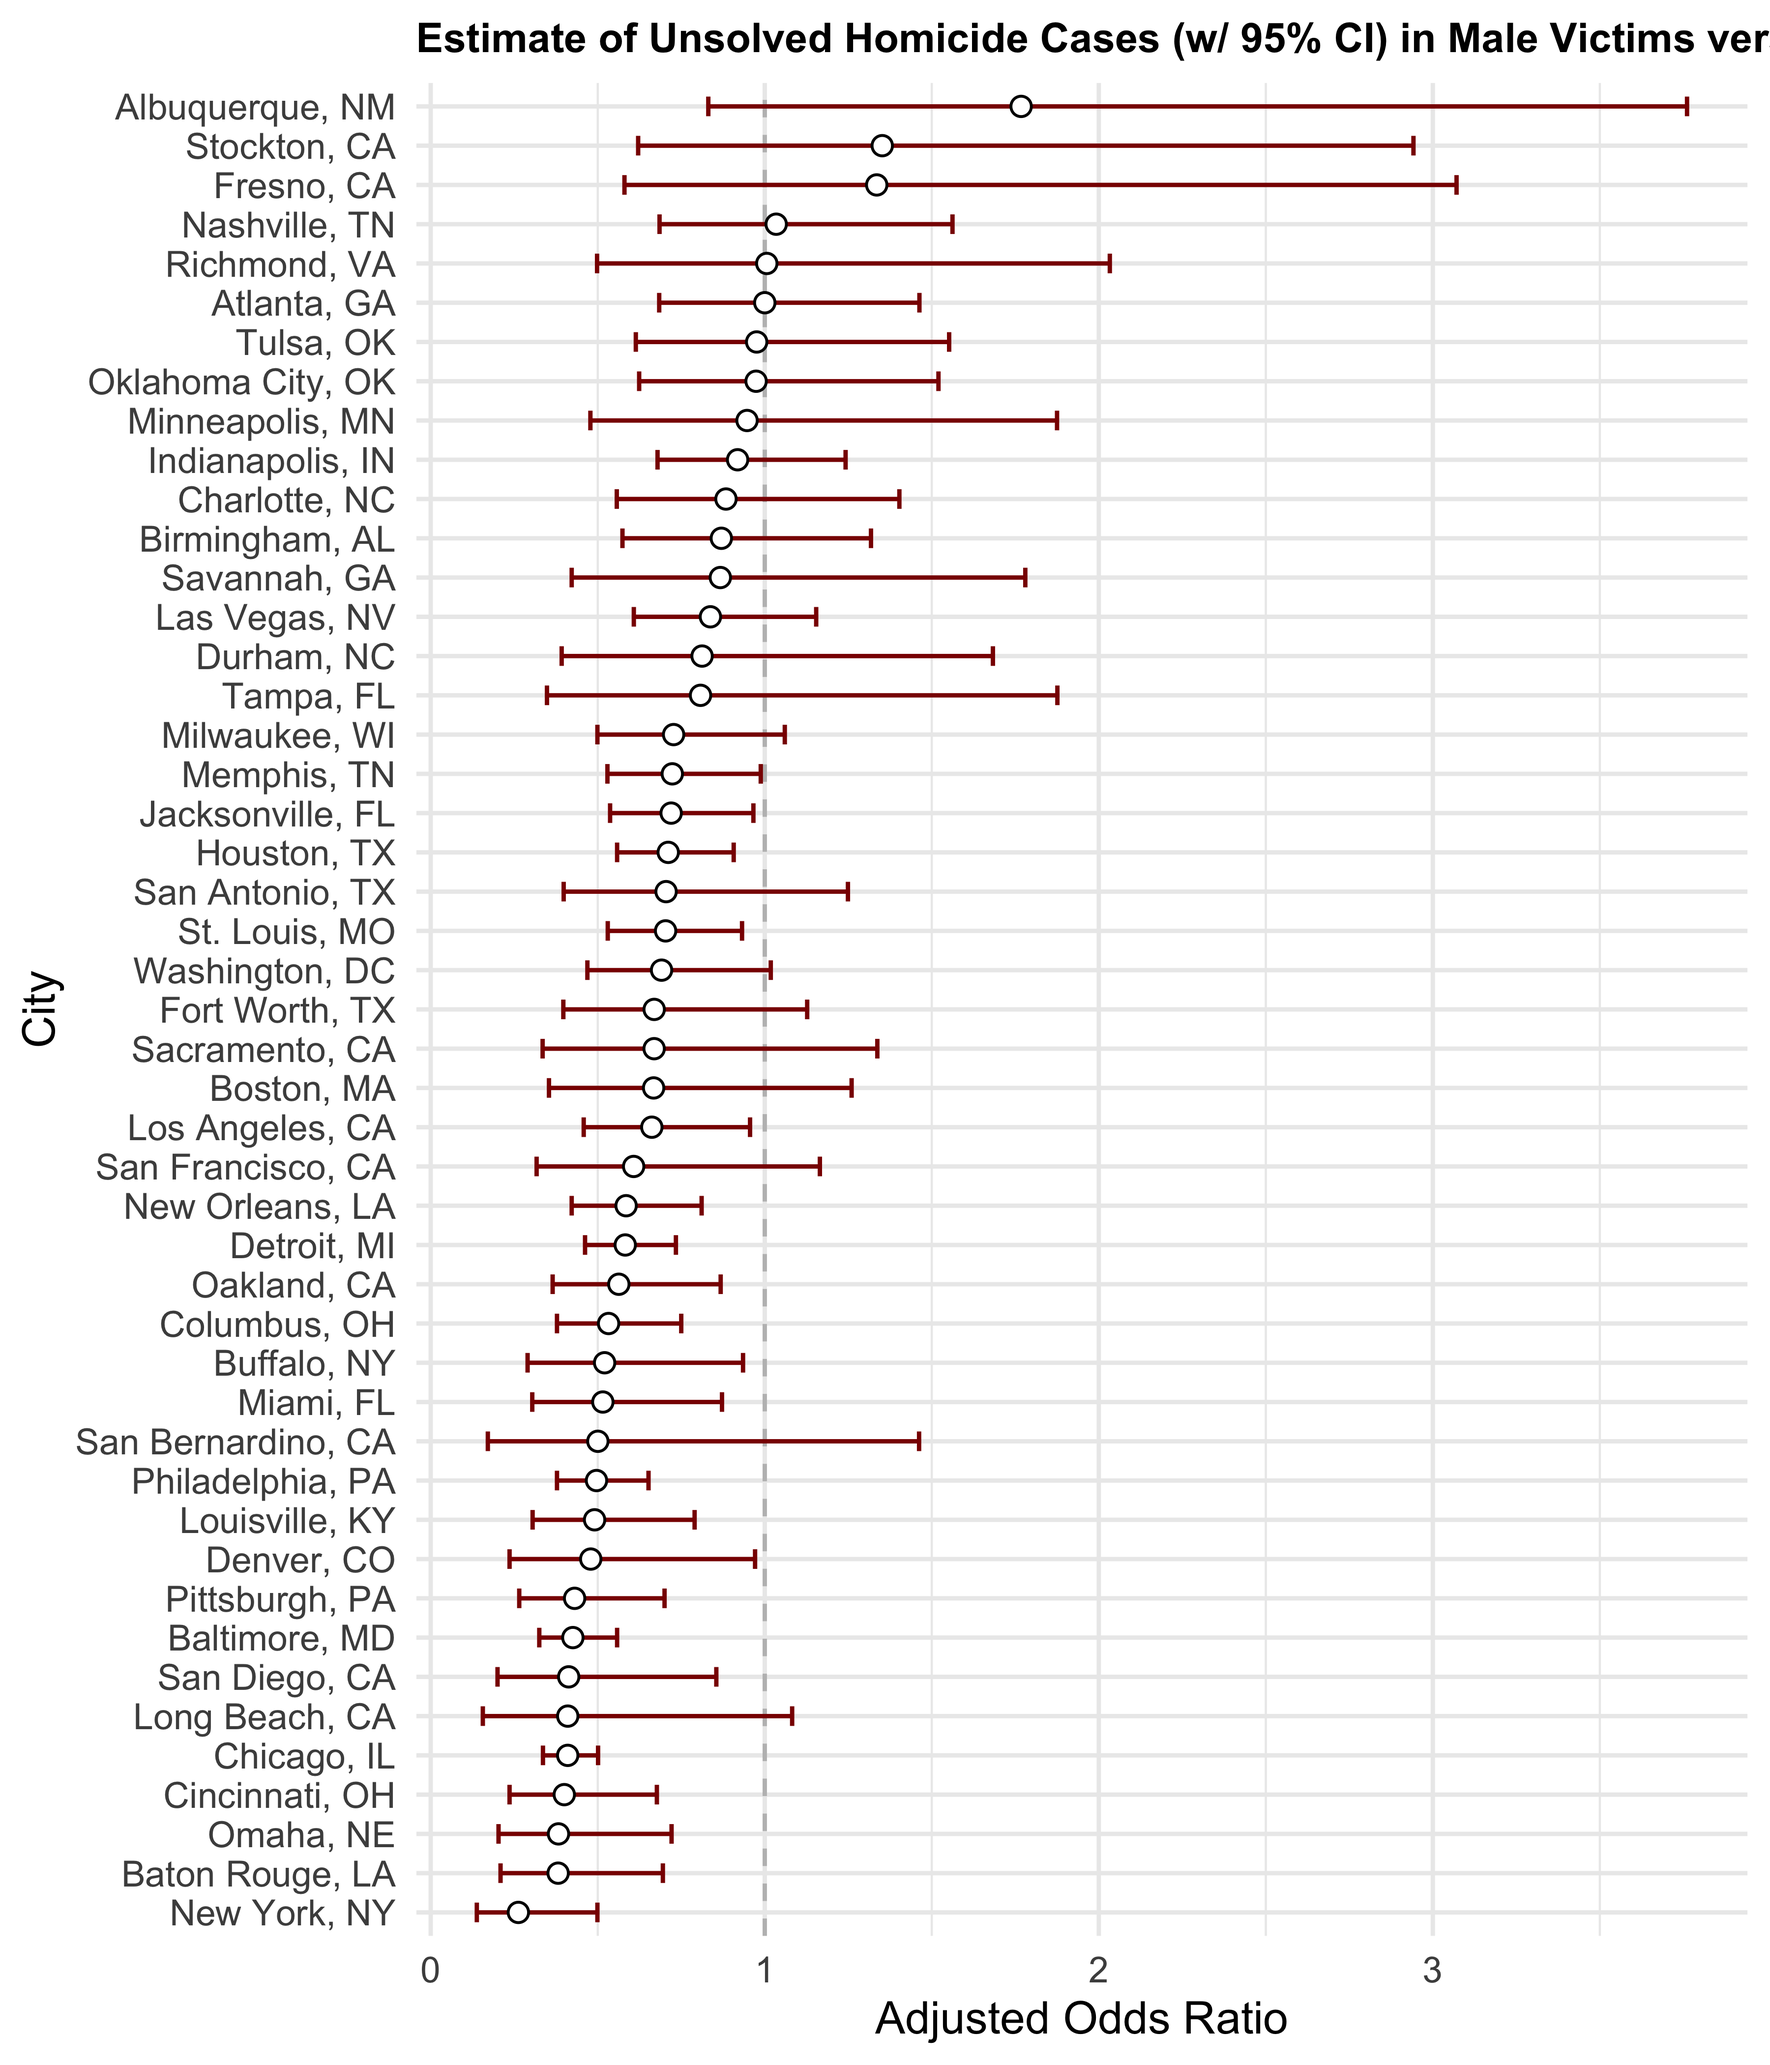
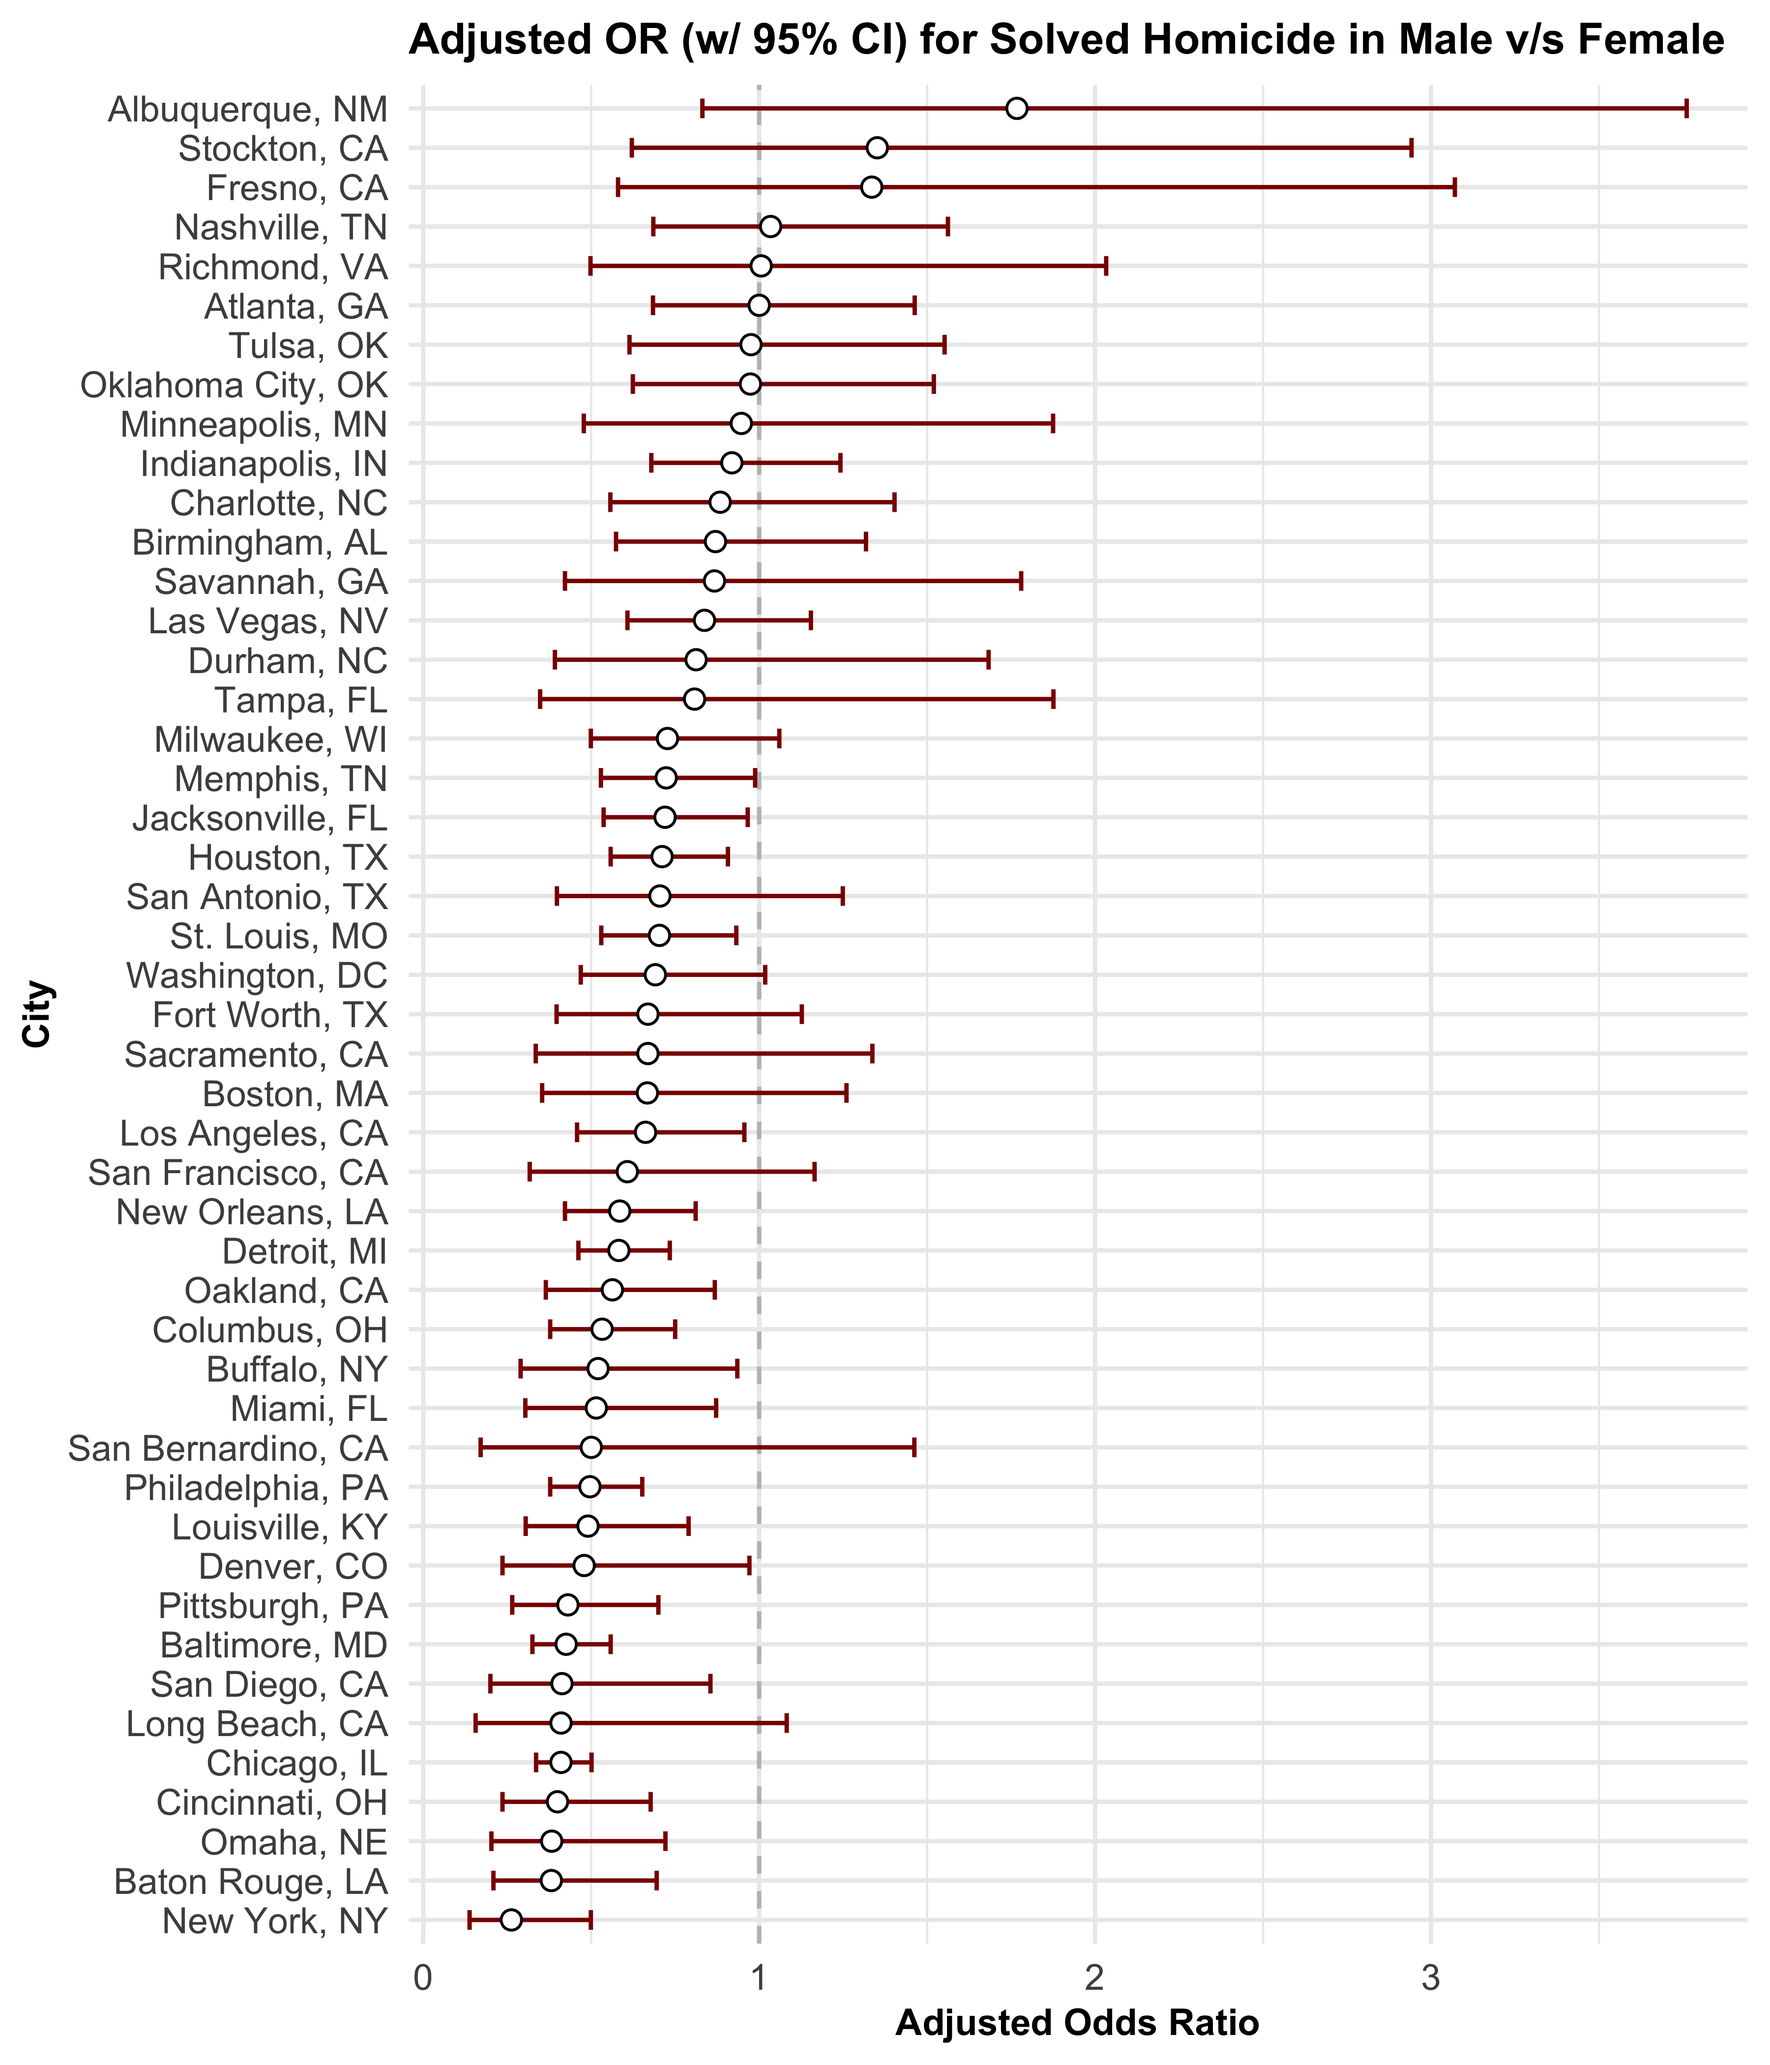
resolving issues with plot (problem2)

Changed region(s): [[0.0311, 0.0, 0.9956, 0.9669], [0.4978, 0.9669, 0.7156, 0.9981], [0.0, 0.4679, 0.0311, 0.499]]

diff --git a/p8105_hw6_cyl2159.md b/p8105_hw6_cyl2159.md
@@ -178,9 +178,10 @@ logistic_allcities_df |>
   geom_hline(yintercept = 1, linetype = "dashed", color = "grey") +
   geom_errorbar(aes(ymin = ci_ll, ymax = ci_ul),color = "darkred", width = 0.5)+
   geom_point(size = 2, shape = 21, fill = "white") +
-  theme(plot.title = element_text(size = 10, face = "bold")) +
+  theme(plot.title = element_text(size = 10.5, face = "bold"), 
+        axis.title = element_text(size = 9, face = "bold")) +
   labs(y = "Adjusted Odds Ratio", x = "City",
-       title = "Estimate of Unsolved Homicide Cases (w/ 95% CI) in Male Victims versus Female", color = "") +
+       title = "Adjusted OR (w/ 95% CI) for Solved Homicide in Male v/s Female", color = "") +
   coord_flip()
 ```
 
